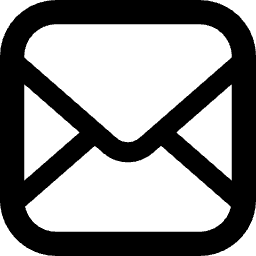
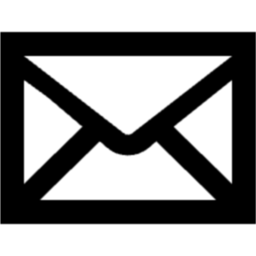
minor fixes

diff --git a/_includes/profile.html b/_includes/profile.html
@@ -9,7 +9,7 @@
             <li class="interests">Spatial Economics, Transportation Science, Learning in Games</li>
             <li class="lnks"><a href="/assets/CV-Osawa.pdf" id="cv-link">CV(pdf)</a><span class="separator">・</span><a href="https://scholar.google.co.jp/citations?user=qKxF-dkAAAAJ">Google Scholar</a><span class="separator">・</span><a href="https://researchmap.jp/minoru_osawa">researchmap</a></li>
             <li class="em"><img src="/assets/img/em.png" id="em-img"> <button id="cpem" class="em-button" type="button">Copy</button><noscript>This site requires JavaScript.</noscript></li>
-            <li class="cal">Scheduled: 
+            <li class="cal">Scheduled talks and visits: 
                 <ul>
                     <li>June 13-14: JSCE IP 2026 Spring (Nagoya)</li>
                     <li>June 17-19: ITEA 2026 (Bergamo, Italy)</li>

diff --git a/_includes/schema_profile.html b/_includes/schema_profile.html
@@ -74,7 +74,7 @@
       "https://ideas.repec.org/e/pos123.html",
       "https://www.semanticscholar.org/author/Minoru-Osawa/46786389"
     ],
-    "description": "Minoru Osawa is an associate professor at the Kyoto Institute of Economic Research, Kyoto University, Japan. His research is in urban, regional, and spatial economics, focusing on the spatial organization of economic activity, mobility, and urban structure."
+    "description": "Minoru Osawa is an Associate Professor at the Kyoto Institute of Economic Research, Kyoto University, Japan. His research is in urban, regional, and spatial economics, focusing on the spatial organization of economic activity, mobility, and urban structure."
   }
 }
 </script>

diff --git a/_includes/head.html b/_includes/head.html
@@ -1,7 +1,7 @@
 <meta charset="UTF-8">
 <meta name="viewport" content="width=device-width, initial-scale=1">
 <meta name="author" content="{{ site.author }}">
-<meta name="description" lang="en" content="{{ site.description }}">
+{% if page.description %}<meta name="description" lang="en" content="{{ page.description }}">{% endif %}
 <title>
 {%- if page.layout == "post" -%}
     {{ page.date | date: "%y.%m.%d" }}: {% if page.running_head %}{{ page.running_head }}{% else %}雑記{% endif %}

diff --git a/_sass/components/_profile.scss b/_sass/components/_profile.scss
@@ -102,7 +102,7 @@
 
   .em-button {
       padding: 0 .2rem;
-      margin-left: .5rem; 
+      margin-left: .2rem; 
       width: 4rem;
       font-size: $font-size-small;
       color: var(--color-text-muted); 
